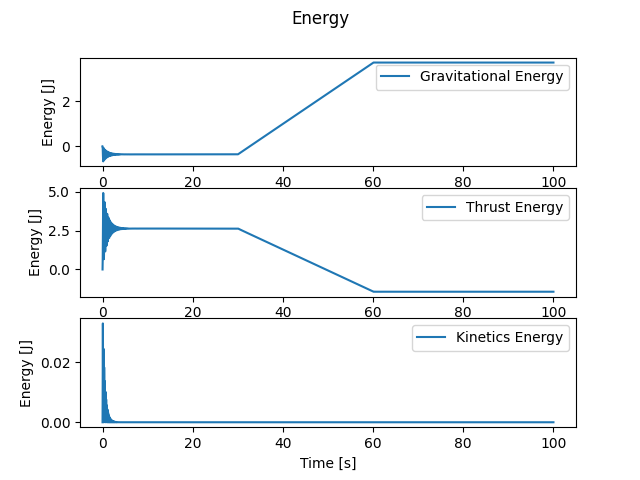
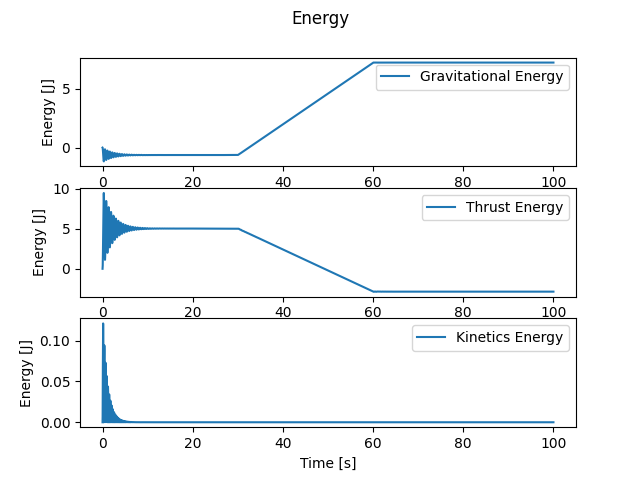
Version du 07/12

diff --git a/scripts/variables.py b/scripts/variables.py
@@ -2,9 +2,9 @@ from math import pi
 
 
 # --- Constants ---
-inertia = 0.152  # [kg * m**2] Inertia
+inertia = 0.5202  # [kg * m**2] Inertia
 g = 9.81  # [m / s**2] Gravitational acceleration
-damping = 1  # [ ? ] Damping of the system
+damping = 1.2  # [#] Damping of the system
 to_degrees = 180 / pi  # [#] coefficient to transform rad in degrees
 to_radians = pi / 180  # [#] coefficient to transform degrees in rad
 
@@ -12,18 +12,18 @@ to_radians = pi / 180  # [#] coefficient to transform degrees in rad
 # --- Barge ---
 barge_x = 0.55  # [m] Barge length
 barge_y = 0.60  # [m] Barge width
-barge_z = 0.15  # [m] Barge height
+barge_z = 0.17  # [m] Barge height
 barge_mass = 4  # [kg] Barge mass
-barge_cg_values = (0.015, 0.140)  # [m] Center of gravity of the barge with the wood planks
+barge_cg_values = (-0.095, 0.140)  # [m] Center of gravity of the barge with the wood planks
 
 # --- Crane --- (Grapple, syringes and 3D printed parts are also taken into account)
 """ COORDINATES SYSTEM
 The origin of this coordinate system is located in the middle of the bottom of the crane base.
 """
-crane_mass = 2  # [kg] Mass of all this components
+crane_mass = 1.8  # [kg] Mass of all this components
 # - Determinate with Fusion360 -
-crane_cg_x_values = (0.069, 0.248)  # [m] Values along the x-axis of the center of gravity of all components (
-# initial, final)
+crane_cg_x_values = (0.069, 0.458)  # [m] Values along the x-axis of the center of gravity of all components (
+# initial, final) (0.069, 0.248)
 crane_cg_z_values = (0.251, 0.257)  # [m] Values along the y-axis of the center of gravity of all
 # components (initial, final)
 
@@ -41,7 +41,7 @@ The origin of this coordinate system is located in the middle of the bottom of t
 """
 counterweight_mass = 2  # [kg] Counterweight mass
 counterweight_cg_x = -0.2  # [m] Values along the x-axis of the center of gravity of the counterweight
-counterweight_cg_z = -0.13  # [m] Values along the z-axis of the center of gravity of the counterweight
+counterweight_cg_z = -0.15  # [m] Values along the z-axis of the center of gravity of the counterweight
 
 # --- Total ---
 sum_mass = barge_mass + crane_mass + counterweight_mass

diff --git a/scripts/graph.py b/scripts/graph.py
@@ -1,4 +1,5 @@
 import matplotlib.pyplot as plt
+from tabulate import tabulate
 from scripts.calculations import *
 from scripts.variables import to_degrees
 import os

diff --git a/scripts/calculations.py b/scripts/calculations.py
@@ -1,5 +1,4 @@
 import numpy as np
-from tabulate import tabulate
 from scripts.variables import *
 from math import sin, cos, tan, atan, pi
 
